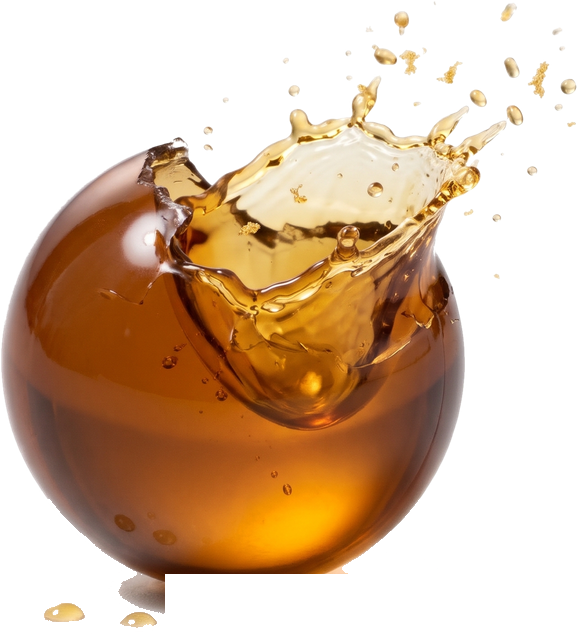
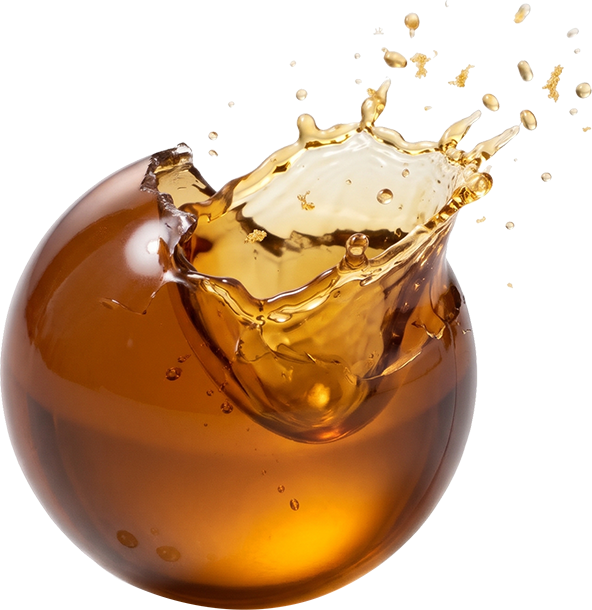
시안 B: 열린 몸통 교체, 뚜껑 열림 모션 개선, 터지는 캡슐 수정

diff --git a/index2.html b/index2.html
@@ -183,7 +183,7 @@ ul{list-style:none}
 .h-type .row{overflow:hidden;padding-bottom:.04em}
 .ready .h-type .row>span{transform:none}
 .ready .h-type .r2>span{transition-delay:.12s}
-.h-prod{position:absolute;left:50%;top:52%;width:clamp(250px,28vw,440px);z-index:3;will-change:transform;translate:-50% -46%}
+.h-prod{position:absolute;left:50%;top:52%;width:clamp(220px,24vw,380px);z-index:3;will-change:transform;translate:-50% -46%}
 .h-prod img{width:100%;filter:drop-shadow(0 40px 46px rgba(58,49,44,.3));opacity:0;translate:0 -60px;transition:opacity .8s .5s,translate 1.6s cubic-bezier(.34,1.4,.5,1) .5s}
 .ready .h-prod img{opacity:1;translate:0 0}
 .h-ring{position:absolute;left:50%;top:52%;width:min(84vmin,720px);aspect-ratio:1;margin:calc(min(84vmin,720px)/-2) 0 0 calc(min(84vmin,720px)/-2);z-index:2;pointer-events:none}
@@ -235,9 +235,9 @@ ul{list-style:none}
   background:radial-gradient(ellipse at 50% 30%,#d9b94e 0%,#ecd583 42%,#f6eccb 64%,#fffdf3 72%,#e6dcc0 100%);
   box-shadow:0 1px 0 rgba(255,255,255,.9);opacity:0;transition:opacity .25s .45s}
 .case.open .c-mouth{opacity:1;transition-delay:0s}
-.c-tabs{position:absolute;left:31%;top:5%;z-index:5;width:0;height:0}
+.c-tabs{position:absolute;left:31.5%;top:8%;z-index:5;width:0;height:0}
 .c-tabs .tab{transform:translate(0,8px) scale(.4);opacity:0;transition:transform .42s cubic-bezier(.5,0,.75,0) calc(var(--k)*.025s),opacity .12s calc(.3s + var(--k)*.025s)}
-.case.open .c-tabs .tab{opacity:1;transform:translate(var(--x),var(--y)) rotate(var(--r)) scale(1);transition:transform .95s cubic-bezier(.34,1.5,.5,1) calc(.58s + var(--k)*.06s),opacity .15s calc(.58s + var(--k)*.06s)}
+.case.open .c-tabs .tab{opacity:1;transform:translate(var(--x),var(--y)) rotate(var(--r)) scale(1);transition:transform .95s cubic-bezier(.34,1.5,.5,1) calc(.72s + var(--k)*.06s),opacity .15s calc(.72s + var(--k)*.06s)}
 .case.open .c-tabs .tab{animation:tabBob 2.6s ease-in-out calc(1.6s + var(--k)*.2s) infinite}
 @keyframes tabBob{0%,100%{translate:0 0;scale:1}35%{scale:1.07 .93}50%{translate:0 -7px;scale:.96 1.04}70%{scale:1.02 .98}}
 .case-hint{position:absolute;left:calc(50% + 6%);top:100%;translate:-50% 14px;white-space:nowrap;font-family:var(--en);font-size:10px;letter-spacing:.26em;display:flex;align-items:center;gap:8px;color:var(--brown-70);transition:opacity .5s;pointer-events:none}
@@ -1283,14 +1283,14 @@ ul{list-style:none}
   const hc = $('#heroCase'), heroTabs = $('#heroTabs'), hint = $('#caseHint');
   $('#caseHintT').textContent = fine ? 'HOVER TO OPEN' : 'TAP TO OPEN';
   // 분해도(03)와 같은 캡슐: 지름 = 케이스 폭의 10% (생성 이미지 속 캡슐 크기)
-  const HT = [[-.95,-.5,-23],[-.62,-.92,32],[-.08,-1.12,-41],[.5,-1.02,50],[.92,-.6,-59],[1.05,-.1,68]];
+  const HT = [[-.12,-1.08,-23],[.24,-1.32,32],[.6,-1.1,-41],[.95,-.76,50],[1.14,-.34,-59],[.62,-.56,68]];
   heroTabs.innerHTML = HT.map((_, k) => `<span class="tab" style="--k:${k}" data-cur="POP"></span>`).join('');
   const heroTabEls = [...heroTabs.children];
   const placeHeroTabs = () => {
     const w = hc.offsetWidth || 200;
     heroTabs.style.setProperty('--tw', (w * .1) + 'px');
     heroTabEls.forEach((el, k) => el.style.setProperty('--rx', (50 + (k % 3) * 8) + 'deg'));
-    heroTabEls.forEach((el, k) => { el.style.setProperty('--x', (HT[k][0] * w * .62) + 'px'); el.style.setProperty('--y', (HT[k][1] * w * .62) + 'px'); el.style.setProperty('--r', HT[k][2] + 'deg'); });
+    heroTabEls.forEach((el, k) => { el.style.setProperty('--x', (HT[k][0] * w * .55) + 'px'); el.style.setProperty('--y', (HT[k][1] * w * .5) + 'px'); el.style.setProperty('--r', HT[k][2] + 'deg'); });
   };
   placeHeroTabs(); addEventListener('resize', placeHeroTabs);
   /* 캡슐 톡: 캡슐이 오므라들며 터지는 사진으로 바뀌고, 잠시 뒤 다시 생겨남 */
@@ -1298,9 +1298,9 @@ ul{list-style:none}
   const popAt = (el, box, big = 3) => {
     if (el._pop) return; el._pop = true;
     const r = el.getBoundingClientRect(), c = box.getBoundingClientRect(), d = r.width || 20;
-    const w = d / .8 * big, h = w * 640 / 578;                       // 터진 사진 속 캡슐 지름 = 사진 폭의 80% × 강조 배율
+    const w = d / .754 * big, h = w * 640 / 592;                     // 터진 사진 속 캡슐 지름 = 사진 폭의 75.4% × 강조 배율
     const img = document.createElement('img'); img.src = POP.src; img.className = 'cap-pop'; img.alt = '';
-    Object.assign(img.style, { width: w + 'px', left: (r.left - c.left + d / 2 - w * .40) + 'px', top: (r.top - c.top + d / 2 - h * .566) + 'px', transformOrigin: '40% 56.6%' });
+    Object.assign(img.style, { width: w + 'px', left: (r.left - c.left + d / 2 - w * .394) + 'px', top: (r.top - c.top + d / 2 - h * .585) + 'px', transformOrigin: '39.4% 58.5%' });
     box.appendChild(img);
     const shrink = el.animate([{ scale: 1 }, { scale: 1.25, offset: .3 }, { scale: 0 }], { duration: 220, fill: 'forwards', easing: 'ease-in' });
     img.animate([
@@ -1321,7 +1321,7 @@ ul{list-style:none}
      닫기: ①캡슐이 먼저 쏙 들어감 → ②뚜껑이 병목 위로 똑바로 → ③내려앉으며 돌려 잠금(작은 반동)
      · 몸통 교체는 뚜껑이 병목을 덮고 있는 순간에, 뚜껑 사진 교체는 뚜껑이 공중에 떠 있는 순간에 → 바뀌는 게 보이지 않음 */
   const capW = $('#heroCapW'), capC = capW.querySelector('.c-cap-closed'), capO = capW.querySelector('.c-cap-open'), bodyO = hc.querySelector('.c-body-open');
-  const OPEN_POSE = 'translate(-4%,-33%) rotate(-13deg)';
+  const OPEN_POSE = 'translate(-46%,-30%) rotate(-24deg)';
   let capAnim = null, seqT = [], autoPop, isOpen = false;
   const clearSeq = () => { seqT.forEach(clearTimeout); seqT = []; clearTimeout(autoPop); };
   const at = (ms, fn) => seqT.push(setTimeout(fn, ms));
@@ -1337,26 +1337,28 @@ ul{list-style:none}
       hint.classList.add('gone');
       show(bodyO, 1, 60);                                   // 뚜껑이 덮고 있을 때 몸통 교체
       runCap([
-        { transform: 'translate(0,-1%) rotate(-5deg)', offset: .12, easing: 'ease-in-out' },
-        { transform: 'translate(0,-2%) rotate(4deg)', offset: .24, easing: 'ease-in-out' },
-        { transform: 'translate(0,-3%) rotate(-2deg)', offset: .32, easing: 'cubic-bezier(.4,0,.2,1)' },
-        { transform: 'translate(0,-40%) rotate(0deg)', offset: .62, easing: 'cubic-bezier(.3,0,.25,1)' },
-        { transform: 'translate(-5%,-35%) rotate(-16deg)', offset: .86, easing: 'ease-in-out' },
+        { transform: 'translate(0,-1%) rotate(-5deg)', offset: .1, easing: 'ease-in-out' },
+        { transform: 'translate(0,-2%) rotate(4deg)', offset: .2, easing: 'ease-in-out' },
+        { transform: 'translate(0,-3%) rotate(-2deg)', offset: .27, easing: 'cubic-bezier(.4,0,.2,1)' },
+        { transform: 'translate(0,-46%) rotate(0deg)', offset: .55, easing: 'cubic-bezier(.4,0,.3,1)' },   // 병목에서 똑바로 빠짐
+        { transform: 'translate(-30%,-44%) rotate(-16deg)', offset: .75, easing: 'cubic-bezier(.3,0,.3,1)' },
+        { transform: 'translate(-48%,-29%) rotate(-26deg)', offset: .9, easing: 'ease-in-out' },          // 왼쪽 위로 옮겨 놓음(살짝 지나침)
         { transform: OPEN_POSE, offset: 1 }
-      ], 1050);
-      at(470, () => { show(capC, 0, 90); show(capO, 1, 90); }); // 공중에서 뚜껑 사진 교체(안쪽 나사산이 보이는 각도)
+      ], 1200);
+      at(520, () => { show(capC, 0, 100); show(capO, 1, 100); }); // 공중에서 뚜껑 사진 교체(안쪽 나사산이 보이는 각도)
       hc.classList.add('open');                              // 캡슐은 CSS 지연(≈0.58s)으로 뚜껑이 빠진 뒤 등장
-      if (!reduce) autoPop = setTimeout(() => { if (isOpen) popAt(heroTabEls[5], hc); }, 1700);
+      if (!reduce) autoPop = setTimeout(() => { if (isOpen) popAt(heroTabEls[4], hc); }, 1900);
     } else {
       hc.classList.remove('open');                           // 캡슐 먼저 들어감
       at(260, () => runCap([
-        { transform: 'translate(0,-40%) rotate(0deg)', offset: .4, easing: 'cubic-bezier(.4,0,.6,1)' },
-        { transform: 'translate(0,0) rotate(3deg)', offset: .78, easing: 'ease-out' },
-        { transform: 'translate(0,-1.2%) rotate(-2deg)', offset: .88, easing: 'ease-in-out' },
+        { transform: 'translate(-24%,-46%) rotate(-12deg)', offset: .25, easing: 'cubic-bezier(.4,0,.6,1)' },
+        { transform: 'translate(0,-46%) rotate(0deg)', offset: .45, easing: 'cubic-bezier(.4,0,.6,1)' },
+        { transform: 'translate(0,0) rotate(3deg)', offset: .8, easing: 'ease-out' },
+        { transform: 'translate(0,-1.2%) rotate(-2deg)', offset: .9, easing: 'ease-in-out' },
         { transform: 'translate(0,0) rotate(0deg)', offset: 1 }
-      ], 820));
-      at(260 + 330, () => { show(capO, 0, 90); show(capC, 1, 90); }); // 병목 위 공중에서 원래 뚜껑으로
-      at(260 + 680, () => show(bodyO, 0, 60));              // 다 닫힌 뒤 몸통 원래대로
+      ], 950));
+      at(260 + 420, () => { show(capO, 0, 90); show(capC, 1, 90); }); // 병목 위 공중에서 원래 뚜껑으로
+      at(260 + 820, () => show(bodyO, 0, 60));              // 다 닫힌 뒤 몸통 원래대로
     }
   };
   if (fine) { hc.addEventListener('mouseenter', () => setOpen(true)); hc.addEventListener('mouseleave', () => setOpen(false)); }
@@ -1370,7 +1372,7 @@ ul{list-style:none}
   const NT = 6; let xPopped = false;
   xTabs.innerHTML = Array.from({ length: NT }, () => '<span class="tab"><b></b><b></b><b></b><b></b></span>').join('');
   const xTabEls = [...xTabs.children];
-  const SEAM = .348, MX = .31, NECK = .04, LIFT = .6, DROP = .1;   // 뚜껑 이음선 · 입구 중심 · 병목 높이 (케이스 기준 비율)
+  const SEAM = .348, MX = .315, NECK = .075, LIFT = .6, DROP = .1;   // 뚜껑 이음선 · 입구 중심 · 병목 높이 (케이스 기준 비율)
   const xGeom = a => { const w = xc.offsetWidth, h = xc.offsetHeight; return { w, h, capDy: -a * LIFT * h, bodyDy: a * DROP * h, mouthY: (NECK + a * DROP) * h }; };
   const xTabPos = (i, a, g) => {
     const gap = g.mouthY - (SEAM * g.h - LIFT * g.h * a);            // 뚜껑과 병목 사이 벌어진 공간
